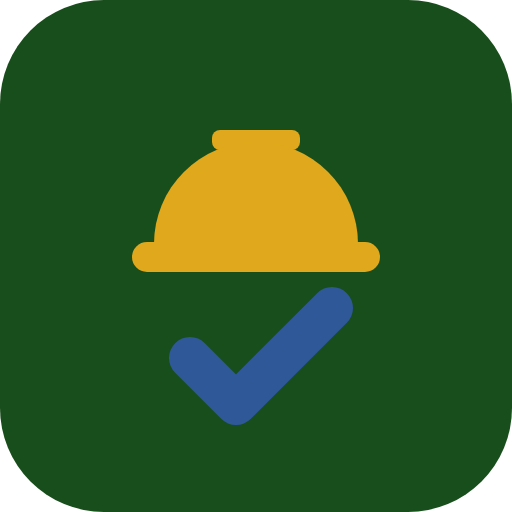
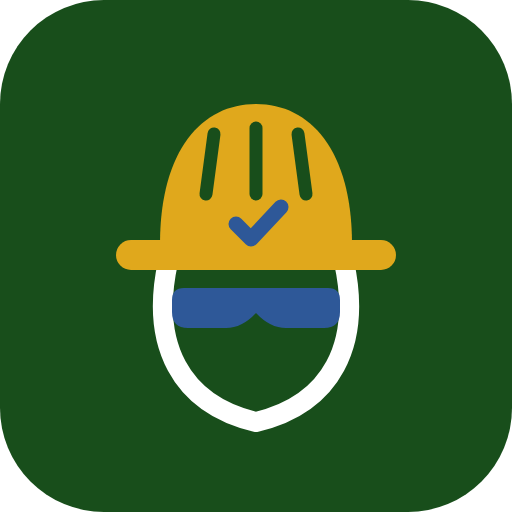
Redesenha o ícone como operário (capacete + óculos + rosto + check)
Inspirado na referência do operário de frente: capacete de obras
amarelo (--a-gold) com vãos de ventilação, óculos de proteção azuis
(--info-blue), contorno do rosto em branco e um pequeno check azul na
frente do capacete, sobre fundo verde (--p-green). Sem as linhas do
pescoço.

Changed region(s): [[0.2188, 0.1875, 0.7812, 0.8438]]

diff --git a/service-worker.js b/service-worker.js
@@ -4,7 +4,7 @@
 // CONFIGURAÇÃO DO SERVICE WORKER - Definições de Cache
 // =========================================================================
 
-const CACHE_NAME = "gentehonesta-v149";
+const CACHE_NAME = "gentehonesta-v150";
 
 // CONFIGURAÇÃO DO SERVICE WORKER - Lista de Recursos Core para Cache Inicial
 const urlsToCache = [

diff --git a/CLAUDE.md b/CLAUDE.md
@@ -76,7 +76,7 @@ manifest.json           — PWA manifest (start_url e scope usam "./" para GitHu
 service-worker.js       — Network-First, cache offline, CACHE_NAME = "gentehonesta-vN"
 CNAME                   — "gentehonesta.com.br"
 .nojekyll               — Impede o Jekyll do GitHub Pages de processar os arquivos
-icon.svg                — Fonte do ícone do app (capacete de obras + check, cores do tema); renderizado para os PNGs
+icon.svg                — Fonte do ícone do app (operário: capacete + óculos + rosto + check, cores do tema); renderizado para os PNGs
 icon-192.png            — Ícone PWA 192px (referenciado no manifest.json)
 icon-512.png            — Ícone PWA 512px (referenciado no manifest.json)
 
@@ -359,7 +359,7 @@ o ícone fica automaticamente centralizado com o texto. `.btn--text .material-sy
 
 **`text-decoration` não propaga de forma confiável para filhos de um flex container:** `.pro-card__meta-item--inactive` (rodapé do card de profissional, `proFooterHTML()` em `feed.js`) risca só o texto do método de pagamento indisponível, nunca o ícone — mas o `text-decoration: line-through` está no span do RÓTULO (`.pro-card__meta-item__label`), não em `.pro-card__meta-item--inactive` diretamente. Colocar o risco no item (que é `display: inline-flex`) e tentar excluir o ícone com `text-decoration: none` nele NÃO funciona no Chrome: como `.pro-card__meta-item` é um flex container, o ícone (item flex) é "blockificado" e o navegador ignora esse `none`, riscando o ícone mesmo assim. A solução é aplicar o risco direto no span do texto, nunca herdado de um ancestral flex.
 
-**Service Worker:** incrementar `CACHE_NAME` em `service-worker.js` a cada deploy com mudanças de cache. Versão atual: `gentehonesta-v149`. Os arquivos CSS e JS são atualizados automaticamente pelo Network-First; o incremento serve para forçar limpeza de caches antigos.
+**Service Worker:** incrementar `CACHE_NAME` em `service-worker.js` a cada deploy com mudanças de cache. Versão atual: `gentehonesta-v150`. Os arquivos CSS e JS são atualizados automaticamente pelo Network-First; o incremento serve para forçar limpeza de caches antigos.
 
 **Seção "Detalhes profissionais" (`#panel-prodetails`):** todas as subseções seguem o mesmo padrão visual
 (sem cards/fundos individuais) — "O que você faz?", "Suas Habilidades" e "Padrão de Serviços" são
